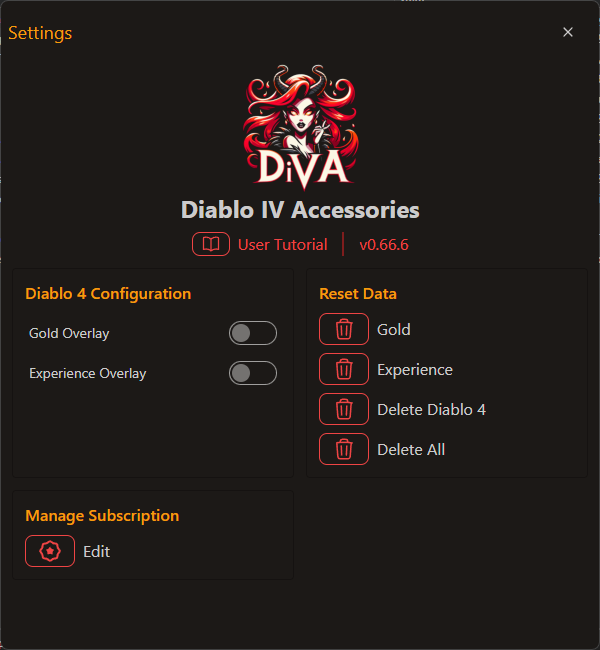
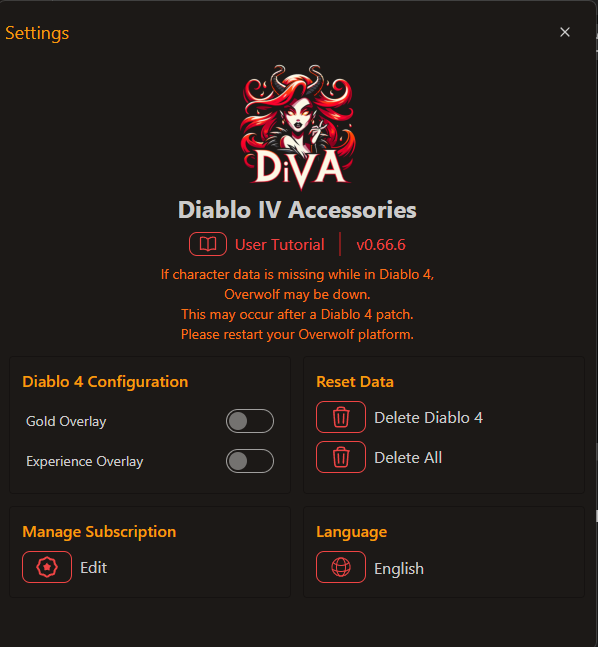
i18n

diff --git a/dIVa/desktop.html b/dIVa/desktop.html
@@ -24,7 +24,7 @@
           <p class="mb-4">Screenshot of the Desktop window.</p>
           <img src="images/desktop.png" alt="Desktop window" class="mb-4 mx-auto rounded-lg" />
           <img src="images/desktop-full.png" alt="Full Desktop" class="mb-4 mx-auto rounded-lg" />
-          <div class="mt-4">
+          <div>
             <h3 class="text-secondary text-lg sm:text-xl font-semibold">Functionality</h3>
             <ul class="list-disc list-inside ml-4 p-4">
               <li><strong>Gold Meter:</strong> This meter can run either in-game or as part of the desktop window.</li>
@@ -41,6 +41,17 @@
                   <li><strong>Hover:</strong> Shows the current character's name and level when hovered over.</li>
                 </ul>
               </li>
+            </ul>
+          </div>
+          <div>
+            <h3 class="text-secondary text-lg sm:text-xl font-semibold">Multi-Language Support</h3>
+            <p>dIVa now supports multiple languages, allowing you to enjoy the full experience in your preferred language!</p>
+            <br />
+            Currently available in:
+            <ul class="list-disc list-inside ml-4 p-4 pt-0">
+              <li><strong>English:</strong> Gear up and conquer Sanctuary with dIVa!</li>
+              <li><strong>Spanish:</strong> ¡Prepárate y conquista Santuario con dIVa!</li>
+              <li><strong>Portuguese:</strong> Equipe-se e conquiste o Santuário com dIVa!</li>
             </ul>
           </div>
         </div>

diff --git a/dIVa/index.html b/dIVa/index.html
@@ -40,6 +40,10 @@
               <li><strong>New "Characters" Feature:</strong> A dedicated interface for managing character and their aliases.</li>
               <li><strong>Leveling Overlay:</strong> An in-game overlay to track and manage leveling milestones.</li>
               <li><strong>Offline Mode:</strong> Manage Characters and the Speed Leveling Tracker even when Overwolf game events are unavailable.</li>
+              <li>
+                <strong>Multi-Language Support:</strong>
+                dIVa now supports multiple languages, allowing you to enjoy the full experience in your preferred language!
+              </li>
             </ul>
             <h3 class="text-secondary text-lg sm:text-xl font-semibold">Improvements</h3>
             <ul class="list-disc list-inside ml-4 p-4 pt-2">

diff --git a/dIVa/settings.html b/dIVa/settings.html
@@ -62,6 +62,10 @@
                 <strong>Manage Subscription:</strong>
                 <p>Access your subscription options and manage your plan or billing details through our trusted partner, Tebex.</p>
               </li>
+              <li>
+                <strong>Language:</strong>
+                <p>Select your preferred language from the available options.</p>
+              </li>
             </ul>
           </div>
         </div>
